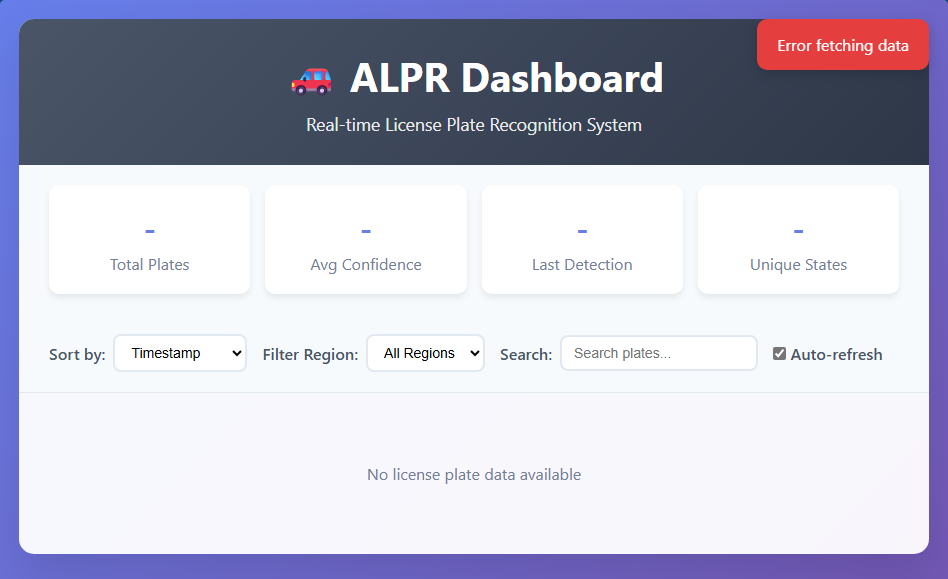
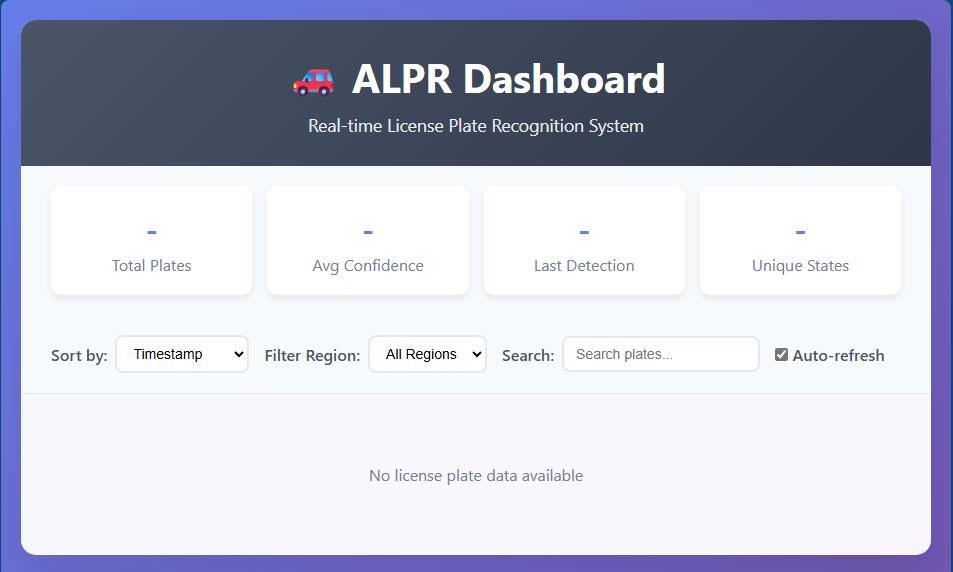
made server setup script for Windows - who wants to remember THOse steps?

diff --git a/README.md b/README.md
@@ -52,14 +52,12 @@ That's it! Any license plates it sees will automatically be uploaded to your ser
 
 ## Running your own local dashboard
 
-This repository also contains an `alpr_integrated_server.py` which runs a local flask dashboard that mimics the OpenALPR dashboard, but runs locally without internet. To run it, first start the flask server, then point the Rekor Scout Agent to the server instead of the OpenALPR server.
-
-To use the server, your Windows computer must have python installed (I used python 3.10, but any modern Python should work). Once you have that installed, run
+This repository also contains an integrated server which runs a local flask dashboard that mimics the OpenALPR dashboard, but saves data locally. To run it, navigate to the server folder and run `server.ps1` to perform setup and then run the server:
 
 ```sh
-python3.10 -m venv .venv
-.\.venv\Scripts\activate
-python3.10 -m pip install flask
+cd path\to\alpr\server
+.\server setup  # performs setup tasks, like installing Python and venv. One time use
+.\server run    # runs the server. This won't work if you haven't run 'setup'
 ```
 
 to start the server, simply run
@@ -77,8 +75,6 @@ You now have an openALPR mimic server that stores all its own local data. the se
 It also stores all the images received in the `plates` folder. The server webpage looks like this:
 
 [webpage](media/webpage.png)
-
-_the error fetching data was because I wasn't running the server when I took the picture._
 
 To connect Rekor Scout to your local webserver:
 
